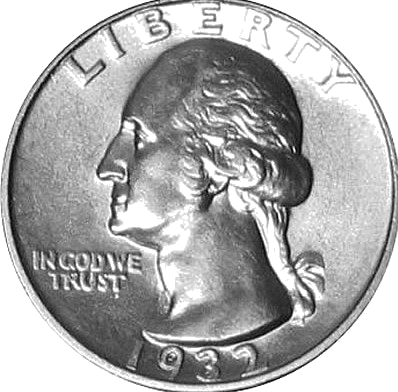
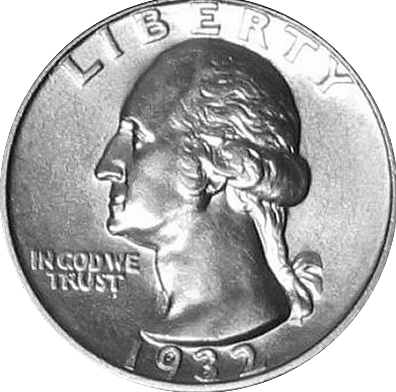
edits to home page

diff --git a/client/src/pages/Home.js b/client/src/pages/Home.js
@@ -1,6 +1,6 @@
 import React from 'react';
-import headsCoin from '../assets/heads.jpg'
-import tailsCoin from '../assets/tails.jpg'
+import headsCoin from '../assets/heads.png'
+import tailsCoin from '../assets/tails.png'
 import { Container, Grid, Image, Divider } from 'semantic-ui-react';
 const { useState } = React
 
@@ -27,10 +27,12 @@ const Home = () => {
 
     return (
        
-        <Container style={{ paddingTop: '30vh', paddingBottom: '50vh'} }>
-            <Grid className="Box">
-            <Grid.Column width={5}>
+        <Container style={{ paddingTop: '30vh', paddingBottom: '29vh'} }>
+            <Grid columns={2} className="Box" divided>
+                <Grid.Row>
+            <Grid.Column  width={5}>
                 <Image
+                    className="boxContent"
                     size="massive"
                     id="coin"
                     type="image"
@@ -39,7 +41,8 @@ const Home = () => {
                 />
                 </Grid.Column>
                 
-                <Grid.Column width={10}>
+                <Grid.Column width={10} >
+                <div className="boxContent">    
                 <h1>Click the coin to decide your course!</h1>
                 <p>You have flipped the coin {flipped} times.</p>
                 <p>The result is {side === 1 ? "heads" : "tails"}.</p>
@@ -47,8 +50,9 @@ const Home = () => {
                     <li>Heads: {heads}</li>
                     <li>Tails: {tails}</li>
                 </ul>
+                </div>
                 </Grid.Column>
-                
+                </Grid.Row>
             </Grid>
             </Container>
            

diff --git a/client/src/index.css b/client/src/index.css
@@ -14,13 +14,27 @@ code {
 }
 
 .Box {
-  background-color: white;
-  opacity: 50%;
+  background-color: #2c2c2c;
+  color: white;
+  opacity: 90%;
+  border: white 5px groove;
+}
 
+.boxContent {
+  padding: 30px;
+  justify-content: center;
 }
 
 .html { 
   background: url(assets/background.jpg) no-repeat center center fixed; 
+  -webkit-background-size: cover;
+  -moz-background-size: cover;
+  -o-background-size: cover;
+  background-size: cover;
+}
+
+.chess {
+  background: url(assets/chess.jpg) no-repeat center center fixed; 
   -webkit-background-size: cover;
   -moz-background-size: cover;
   -o-background-size: cover;

diff --git a/client/src/components/Nav/index.js b/client/src/components/Nav/index.js
@@ -7,7 +7,7 @@ import { Container, Image, Dropdown } from 'semantic-ui-react';
 const Nav = () => {
   if (Auth.loggedIn()) {
     return (
-      <Menu fixed='top' size="massive" inverted>
+      <Menu fixed='top' size="massive" style={{backgroundColor: '#c68c27'}}>
         <Container>
           <Menu.Item as='a' href="/" header>
             Decidr
@@ -28,7 +28,7 @@ const Nav = () => {
   } else {
     return (
 
-      <Menu fixed='top' size="massive" inverted>
+      <Menu fixed='top' size="massive" style={{backgroundColor: '#c68c27'}}>
         <Container>
           <Menu.Item as='a' href="/" header>
             Decidr

diff --git a/client/src/components/Footer/index.js b/client/src/components/Footer/index.js
@@ -1,18 +1,14 @@
 import React from 'react';
+import { Segment, Container } from 'semantic-ui-react';
 
 
 const Footer = () => {
-  const footerStyles = {
-    backgroundColor: 'DodgerBlue',
-    padding: '20px',
-    fontFamily: 'Arial'
-    
-  }
-
   return (
-    <footer style={footerStyles}>
-      <div >&copy;2020 by Team Avatar</div>
-    </footer>
+    <Segment size="huge" style={{backgroundColor: '#c68c27'}}>
+      <Container>
+        <div >&copy;2020 by Team Avatar</div>
+      </Container>
+    </Segment>
   );
 };
 

diff --git a/client/src/App.js b/client/src/App.js
@@ -35,7 +35,7 @@ function App() {
   return (
     <ApolloProvider client={client}>
       <Router>
-       <div class="html">
+       <div className="chess" >
          {/* <StoreProvider> */}
           <Nav/>
             <main>
@@ -50,6 +50,7 @@ function App() {
               </Switch>
             </main>
         {/* </StoreProvider> */}
+        <Footer/>
        </div>
       </Router>
     </ApolloProvider>

diff --git a/client/src/pages/Login.js b/client/src/pages/Login.js
@@ -39,7 +39,7 @@ const Login = (props) => {
   };
 
   return (
-    <Grid textAlign='center' style={{ height: '100vh' }} verticalAlign='middle'>
+    <Grid textAlign='center' className="html" style={{ height: '100vh' }} verticalAlign='middle'>
       <Grid.Column style={{ maxWidth: 450 }}>
         <Header as='h2' textAlign='center'>
           Login to your account

diff --git a/client/src/pages/Signup.js b/client/src/pages/Signup.js
@@ -35,7 +35,7 @@ const Signup = () => {
   };
 
   return (
-      <Grid textAlign='center' style={{ height: '100vh' }} verticalAlign='middle'>
+      <Grid className="html" textAlign='center' style={{ height: '100vh' }} verticalAlign='middle'>
       <Grid.Column style={{ maxWidth: 450 }}>
         <Header as='h2' textAlign='center'>
           Sign Up!
